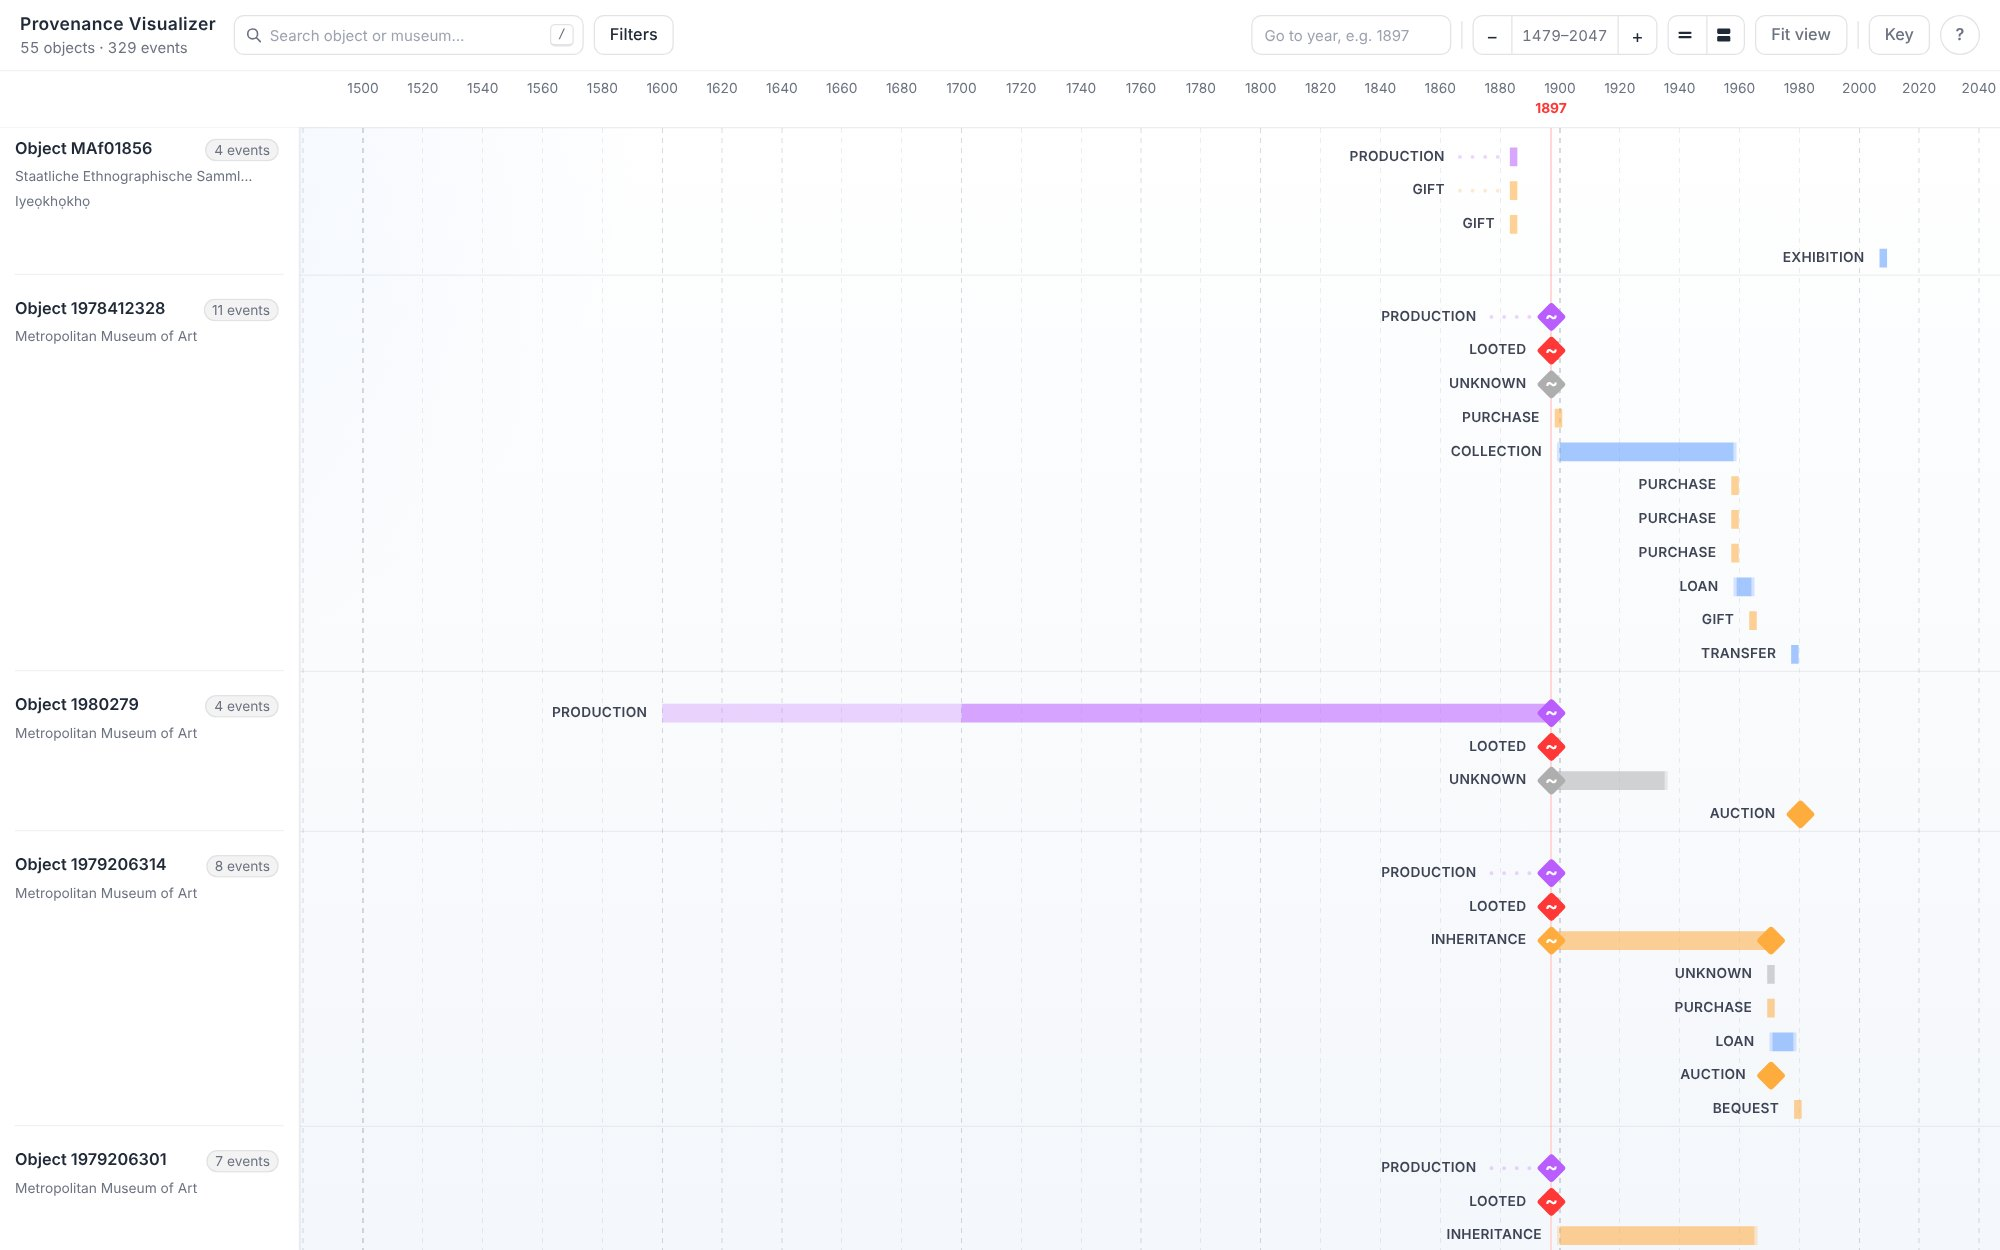
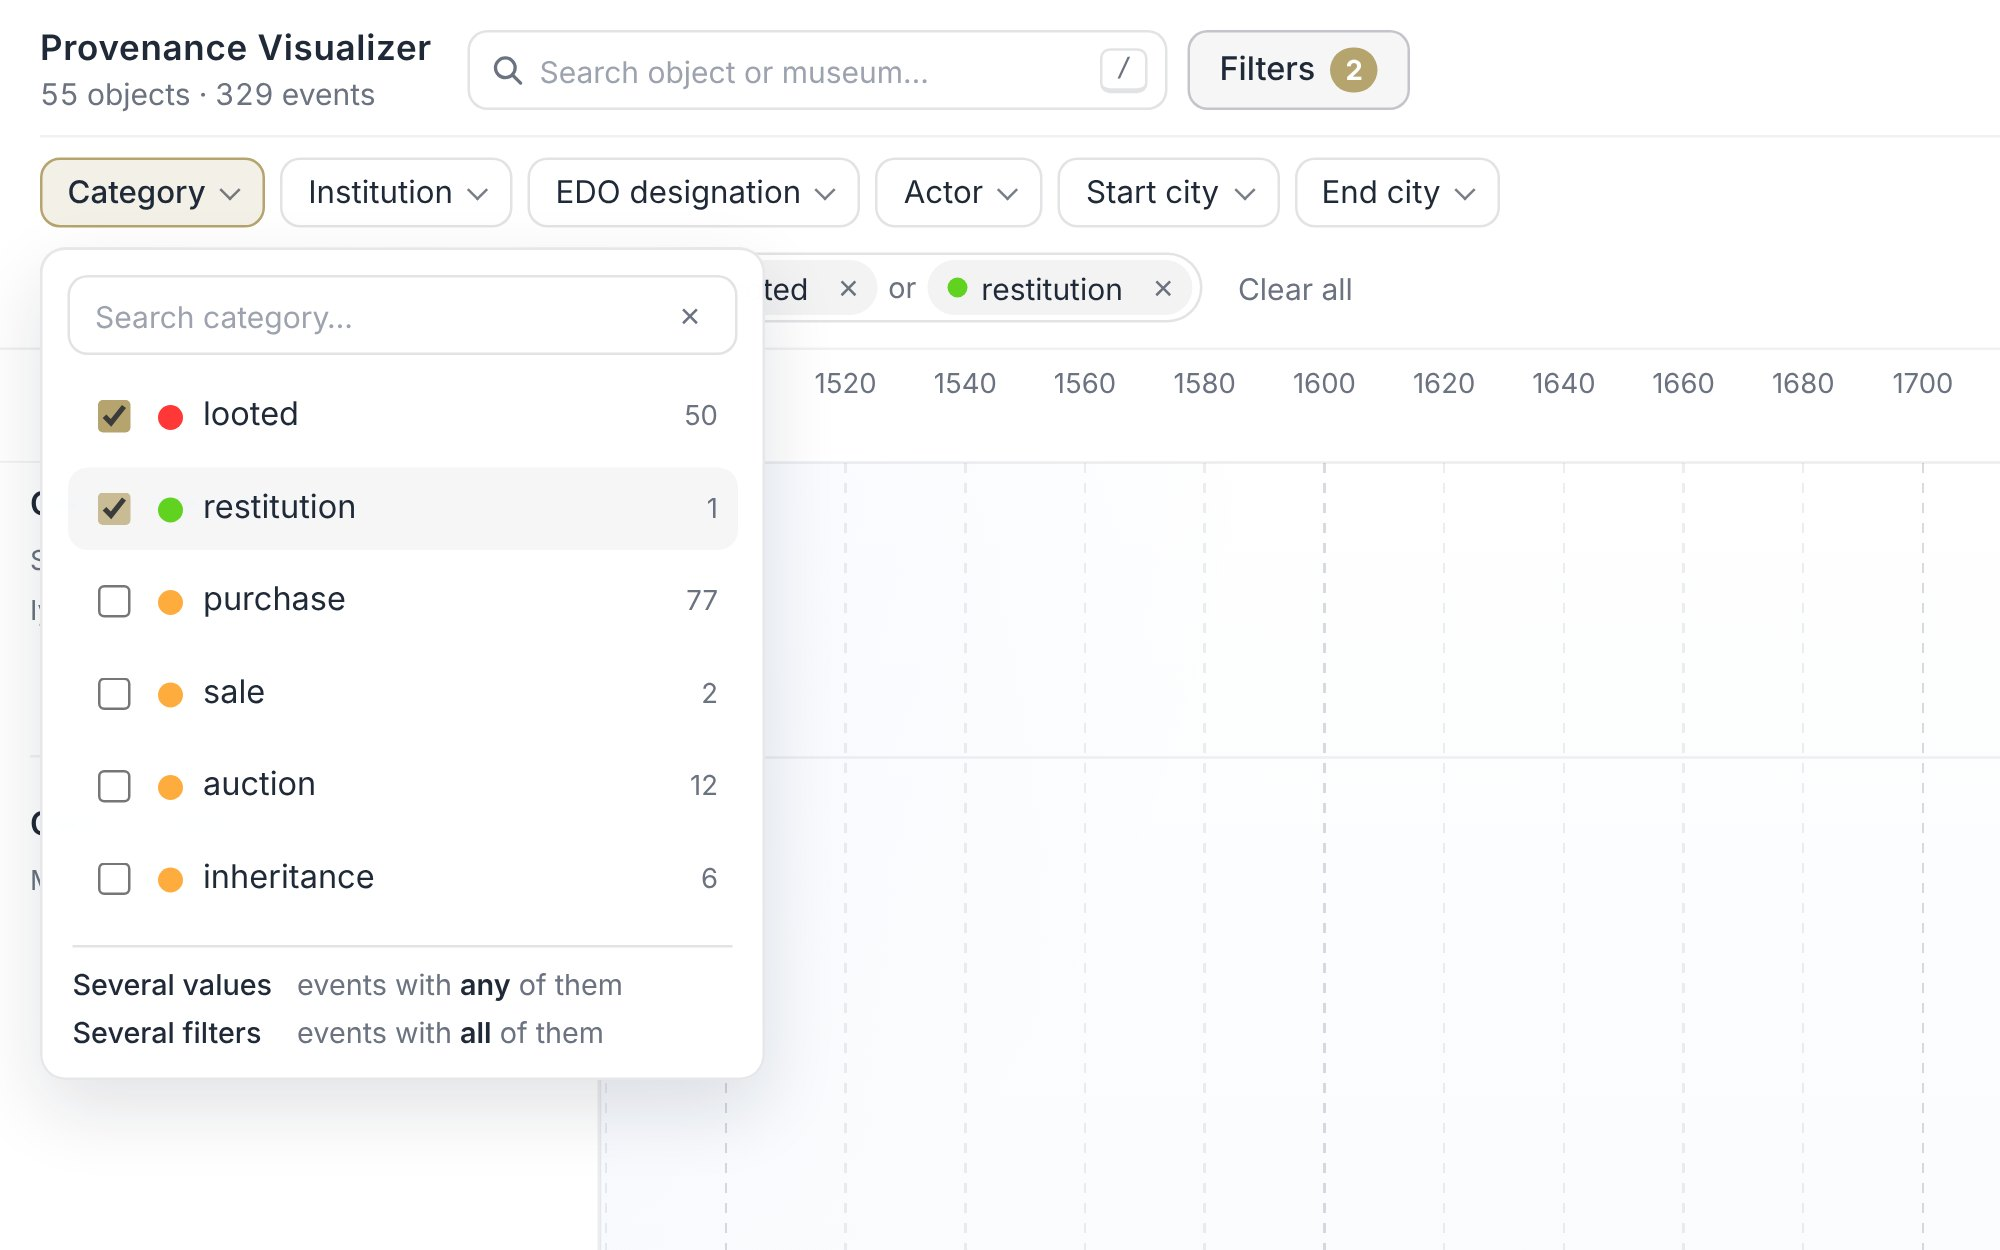
Reorder Provenance Visualizer media, shorten text
Order: video, full timeline, one object, filters, UI. UI caption now "atoms, molecules, organisms"; text mentions it is a research project.

Claude-Session: https://claude.ai/code/session_01MD2GogDo93tzYoVA3ht9Ur

diff --git a/index.html b/index.html
@@ -189,16 +189,16 @@
           <p>Desktop website</p>
         </div>
         <div class="text">
-          <p>Provenance Visualizer traces the lives of objects from the Kingdom of Benin, from their making and the 1897 looting to sales, loans and museum collections today. Each object becomes a row of events on a shared timeline, coloured by the kind of change it went through: loss, change of owner, custody, restitution.</p>
-          <p>Provenance records are rarely precise. Instead of smoothing that away, the tool reads dates written in EDTF and draws exact, approximate, uncertain and open-ended dates differently, so that what is not known stays visible.</p>
+          <p>Provenance Visualizer traces the lives of objects from the Kingdom of Benin, from the 1897 looting to sales, loans and museum collections today. Each object is a row of events on a shared timeline, coloured by the kind of change: loss, change of owner, custody, restitution.</p>
+          <p>It is also a research project in its own right. Provenance records are rarely precise, so instead of smoothing that away the tool reads dates written in EDTF and draws exact, approximate and uncertain dates differently, keeping what is not known visible.</p>
         </div>
         <div class="carousel">
           <div class="track">
             <video src="img/studio/provenance-viz-01.mp4" data-caption="scroll through objects, zoom into time" muted autoplay loop playsinline preload="metadata"></video>
-            <img src="img/studio/provenance-viz-02.jpg" data-caption="filters: counts follow your other choices" alt="Provenance Visualizer, filters" loading="lazy">
+            <img src="img/studio/provenance-viz-02.jpg" data-caption="55 objects, 329 events, one timeline" alt="Provenance Visualizer" loading="lazy">
             <img src="img/studio/provenance-viz-03.jpg" data-caption="one object, from looting to bequest" alt="Provenance Visualizer, one object" loading="lazy">
-            <img src="img/studio/provenance-viz-04.jpg" data-caption="55 objects, 329 events, one timeline" alt="Provenance Visualizer" loading="lazy">
-            <img src="img/studio/provenance-viz-05.jpg" data-caption="every piece of the interface, laid out" alt="Provenance Visualizer, interface components" loading="lazy">
+            <img src="img/studio/provenance-viz-04.jpg" data-caption="filters: counts follow your other choices" alt="Provenance Visualizer, filters" loading="lazy">
+            <img src="img/studio/provenance-viz-05.jpg" data-caption="atoms, molecules, organisms" alt="Provenance Visualizer, interface components" loading="lazy">
           </div>
         </div>
       </div>
